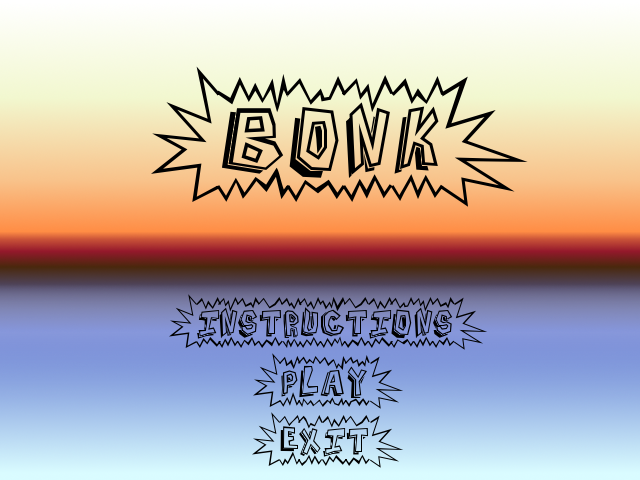
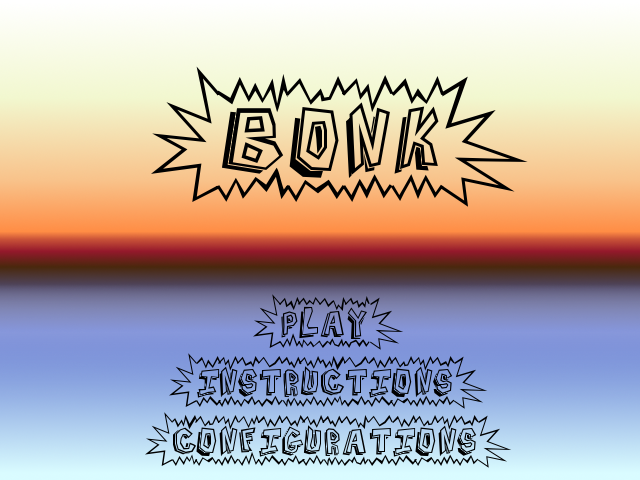
Modif menu !

Changed region(s): [[0.2188, 0.625, 0.7812, 0.9688]]

diff --git a/NetBeansProjects/TheNewBostonTutorial/src/javagame/Menu.java b/NetBeansProjects/TheNewBostonTutorial/src/javagame/Menu.java
@@ -8,17 +8,17 @@ public class Menu extends BasicGameState {
     
     // public String mouse = "No input yet!";
     /*
-    Image baboon;
     int imagex = 200;
     int imagey = 200;
     */
+    Image imgMenu;
     
     public Menu(int state) {
         
     }
     
     public void init(GameContainer gc, StateBasedGame sbg) throws SlickException {
-        //baboon = new Image("res/baboon.png");
+        imgMenu = new Image("res/menu.png");
     }
     
     public void render(GameContainer gc, StateBasedGame sbg, Graphics g) throws SlickException {
@@ -26,11 +26,12 @@ public class Menu extends BasicGameState {
         g.drawString(mouse, 50, 50);
         g.drawRect(50, 100, 60, 120);
         Image baboon = new Image("res/baboon.png");
-        g.drawImage(baboon, 200, 130);
-        */
+        
         //g.drawImage(baboon, imagex, imagey);
         g.fillOval(75, 100, 100, 100);
         g.drawString("Play Now!", 80, 70);
+        */
+        g.drawImage(imgMenu, 0, 0);
     }
     
     public void update(GameContainer gc, StateBasedGame sbg, int delta) throws SlickException {
@@ -56,9 +57,19 @@ public class Menu extends BasicGameState {
         Input input = gc.getInput();
         int xpos = Mouse.getX();
         int ypos = Mouse.getY();
-        if ((xpos > 75 && xpos < 175) && (ypos > 160 && ypos <260)) {
+        if ((xpos > 270 && xpos < 375) && (ypos > 135 && ypos <175)) {
             if (input.isMouseButtonDown(0)) {
                 sbg.enterState(1);
+            }
+        }
+        if ((xpos > 195 && xpos < 465) && (ypos > 75 && ypos <115)) {
+            if (input.isMouseButtonDown(0)) {
+                System.out.println("Instructions pressed");
+            }
+        }
+        if ((xpos > 165 && xpos < 495) && (ypos > 18 && ypos <58)) {
+            if (input.isMouseButtonDown(0)) {
+                System.out.println("Configurations pressed");
             }
         }
     }

diff --git a/NetBeansProjects/TheNewBostonTutorial/src/javagame/Instr.java b/NetBeansProjects/TheNewBostonTutorial/src/javagame/Instr.java
@@ -1,0 +1,33 @@
+/*
+ * To change this license header, choose License Headers in Project Properties.
+ * To change this template file, choose Tools | Templates
+ * and open the template in the editor.
+ */
+package javagame;
+
+import org.newdawn.slick.GameContainer;
+import org.newdawn.slick.SlickException;
+import org.newdawn.slick.state.BasicGameState;
+import org.newdawn.slick.state.StateBasedGame;
+
+/**
+ *
+ * @author lea
+ */
+public class Instr extends BasicGameState {
+    
+    public Play(int state) {
+        
+    }
+    
+    public void init(GameContainer gc, StateBasedGame sbg) throws SlickException {
+        
+    }
+    
+    public int getID() {
+        return 2;
+    }
+    
+}
+
+

diff --git a/NetBeansProjects/TheNewBostonTutorial/src/javagame/Game.java b/NetBeansProjects/TheNewBostonTutorial/src/javagame/Game.java
@@ -8,6 +8,8 @@ public class Game extends StateBasedGame {
     public static final String gamename = "RUNNER";
     public static final int menu = 0;
     public static final int play = 1;
+    public static final int instr = 2;
+    public static final int config = 3;
 
     public Game(String gamename) {
         super(gamename);
